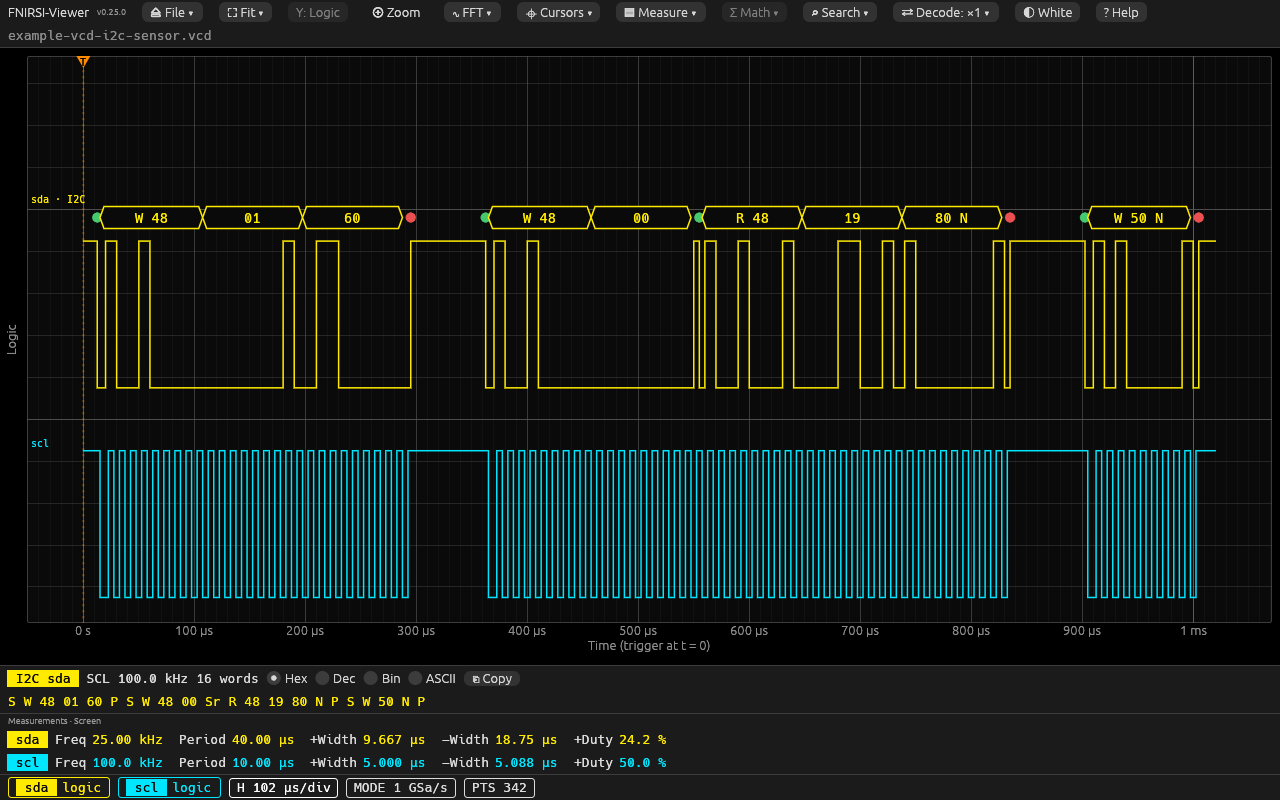
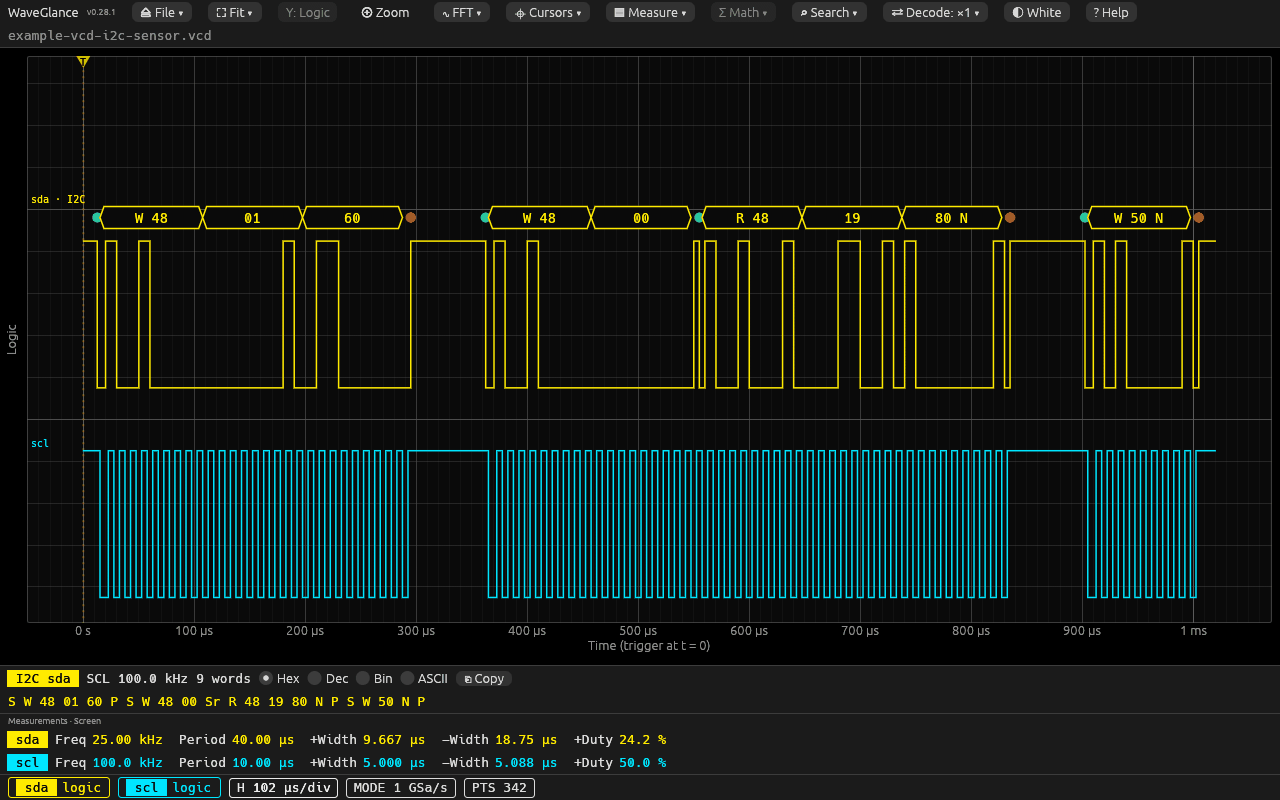
Cleanup (0.28.2)
New README screenshots of the VCD examples (the old name was in the title
bar), all README images compressed to a 256-colour palette (1.8 MB to
0.8 MB). fetch-samples.sh copies only the 45 Rigol files that the tests use
(was 114). Removed the unused decoder setting source.

diff --git a/src/decode/mod.rs b/src/decode/mod.rs
@@ -221,8 +221,6 @@ impl Protocol {
 #[serde(default)]
 pub struct Settings {
     pub protocol: Protocol,
-    /// Index of the trace with the data (0 = the first trace of the file).
-    pub source: usize,
     /// Threshold of an analog trace, in its unit; `None` = automatic.
     pub threshold: Option<f64>,
     pub uart: uart::Settings,
@@ -233,7 +231,6 @@ impl Default for Settings {
     fn default() -> Self {
         Self {
             protocol: Protocol::Off,
-            source: 0,
             threshold: None,
             uart: uart::Settings::default(),
             spi: spi::Settings::default(),

diff --git a/CHANGELOG.md b/CHANGELOG.md
@@ -5,6 +5,15 @@ raises the minor number (0.2.0 → 0.3.0), a fix raises the patch number
 (0.2.0 → 0.2.1). Each release has a git tag `vX.Y.Z`. The app shows its
 version next to the title; hover it to see the git commit of the build.
 
+## 0.28.2 — 2026-11-08
+
+- Cleanup. The five README screenshots of VCD files are new (they showed the
+  old name in the title bar), and the nine README images are compressed
+  (1.8 MB → 0.8 MB).
+- `scripts/fetch-samples.sh` downloads only the 45 Rigol files that the tests
+  use (it copied 114; about 100 MB less in `tests/data/`).
+- Removed the decoder setting `source`, left from the one-line decoder.
+
 ## 0.28.1 — 2026-11-08
 
 - Texts that still described a FNIRSI-only viewer: the welcome screen (it now
